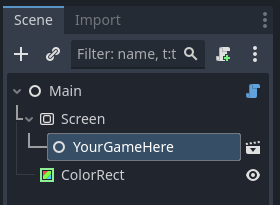
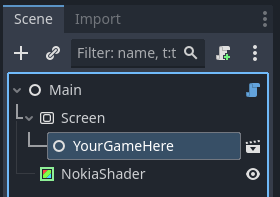
update README.md

diff --git a/README.md b/README.md
@@ -2,49 +2,45 @@
 
 https://itch.io/jam/nokiajam6
 
-Base project for the nokia game jam 6
+Starter for the nokia game jam 6 made for Godot 4.2
 
+This is best suited for a 2D game.
 
-## How does it works ?
+# How to use it ?
 
-The main scene's tree:
-
+This project is set to run `main.tscn` on startup. The `Main` scene's structure is as followed:
 <p style="text-align:center;">
     <img alt="the main scene tree" src="./assets/doc/main-scene-tree.png" />
 </p>
 
-- `Scene` (type: `Subviewport`) is the 84x48 (or 48x84) viewport where your game scene must be a child of.
-- `ColorRect` is the node that will display the content of `Scene` and run the `nokia` shader.
+The idea is to create your game in a scene like you would normally do.
+Instead of running it directly, you simply set it as a child of the `Screen` node.
 
-I provided an example of scene with the Nokia's animated splash-screen.
+You only have to focus on your game and nothing else.
+
+I provided a simple example with the Nokia's animated splash-screen.
 
 <p style="text-align:center;">
     <img alt="Nokia's startup" src="./assets/doc/nokia-startup.gif" />
 </p>
 
-## The `Nokia 3310` shader
+## How does it work ?
 
-The "NOKIA 3310" effect is archive with the shader located in `./assets/shaders/nokial-3310.gdshader`
+`Scene` is a `Subviewport` where your game will be rendered. This viewport's resolution is set as 84x48 (or 48x84) pixels.
 
-<p style="text-align:center;">
-    <img alt="the shader in action" src="./assets/doc/shader-main.png" />
-</p>
+`NokiaShader` is a `ColorRect` with a shader material that will take the rendered image of `Scene` and apply a filter to make it look like a Nokia 3310's screen.
 
-This shader can be customized:
-- color palette
-- screen-door effect *
-- pixel shadow *
-- LCD noise level *
-
-\* can be deactivate
+# Customizing the project
 
 ## Change the color palette
 
-The jam only allows three palettes: `ORIGINAL`, `HARSH` and `GREY`. You can set the desired one directly from the `Main` node with the parameter `palette`. You need to reload the scene in order to see the changes.
+This jam only allows three palettes: `ORIGINAL`, `HARSH` and `GREY`. You can set the desired one directly from the `Main` node with the parameter `palette`.
 
 <p style="text-align:center;">
     <img src="./assets/doc/color-palettes.png" alt="all the palettes" width="100%"/>
 </p>
+
+> You need to reload the scene to see the changes.
 
 ## Set your viewport in `portrait` instead of `landscape`
 
@@ -52,7 +48,59 @@ By default, this project is setup in `landscape` (ie: 84x48). If you want to set
 - set the main scene's orientation as `PORTRAIT`
 - update the project window's width and height accordingly
 
+> Nokia's pixels are not square but rather rectangular. Their aspect ratio is 3:4 meaning they are taller than they are wide in landscape mode. Therefore, please ensure that the aspect ratio of the `NokiaShader` remains the same. Keep this in mind if you set your game to portrait.
+
+## Change the resolution of your game window
+
+Because the SubViewport `Screen` will be rendered directly in `NokiaShader`. You can set the resolution directly in your project's settings.
+
+> 💡: You can resize the `NokiaShader` however you like. For example: you can scale it down and place a background image of a nokia 3310 behind it.
+
 ## No dithering ?
 
 No, I don't plan to add it to this project.  
-But if you need this effect for your game, you can find a simple dithering shader in one my [other project](https://github.com/Eptwalabha/godot-shaders/tree/main/2D/dithering)
+But if you need this effect for your game, you can find a complete ordered dithering shader in one my [other repo](https://github.com/Eptwalabha/godot-shaders/tree/main/2D/dithering)
+
+## The `Nokia 3310` shader
+
+The "NOKIA 3310" effect is archived with the shader located in `./assets/shaders/nokial-3310.gdshader`
+
+<p style="text-align:center;">
+    <img alt="the shader in action" src="./assets/doc/shader-main.png" />
+</p>
+
+### Color palette
+
+The shader will render any pixel "lit" with the color set in `Color White` and all other pixels with the color set in `Color Black`.
+
+A pixel is considered "lit" when:
+- its alpha value is not zero
+- its grayscale color is over 0.5
+
+> 💡: The grayscale value of a color is: `Red * 0.3 + Green * 0.59 + Blue * 0.11`
+
+### LCD "screen-door" effect
+
+This replicate the gap between pixels:
+- `Door Effect`: the gap between pixels (`0`: no gap, `1`: big gap)
+- `Door Intensity`: feathered the pixels (`0`: hard edge, `1`: soft edge)
+
+### Pixel shadow
+
+When lit, LCD pixel cast tiny shadows below.
+- `Shadow Offset`: the offset of the shadow (eg: `Vector(-0.2, 0.3)` means that the shadow will be on the bottom right of the pixel)
+- `Shadow Intensity`: `0`: no shadow, `1`: shadow as dark as a "lit" pixel
+
+### LCD grain
+
+The grainy effect of LCD screen.
+- `Grain Amount` to increase/decrease the effect (`0`: no effect, `1.0`: full effect)
+
+> ⚠ This effect could be a rule-breaker: This add a tiny amount of noise to the pixel, thus not complying 100% with the "fixed palette" rule. I'll check with the host of the jam to see if this is allowed.
+
+# Credits
+
+The font [nokia.ttf](./assets/fonts/nokia/nokia.ttf) was made by [Zeh Fernando](https://portfolio.zehfernando.com/) and is available on [dafont.com](https://www.dafont.com/nokia-cellphone.font) for free.  
+If you use this font in your project please credit its author.
+
+All the other assets, including the font [lowrez.png](./assets/fonts/lowrez/lowrez.png) and the images, were created/recreated by me. You are free to use them in any way you like without crediting me, but if you choose to do so… thanks ;)
